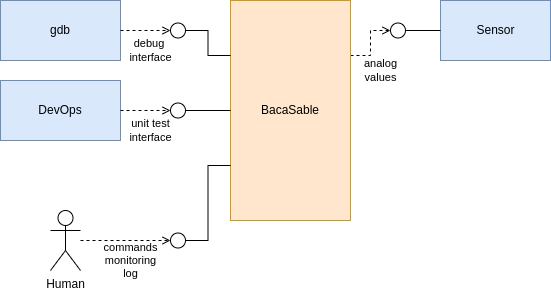
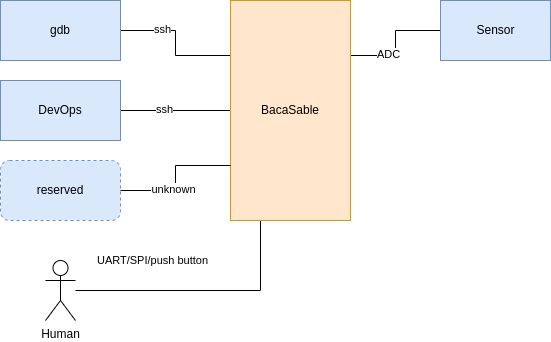
Fixed system scope and context
Split of business and technical context. Business is all
technologies we want to train/improve, technical context
represents the means used to do it

diff --git a/01_Analysis/03_system_scope_and_context.md b/01_Analysis/03_system_scope_and_context.md
@@ -10,21 +10,35 @@ An interface with the real physical world may also bring some unexpected behavio
 
 ### Motivation
 
-The domain interfaces and technical interfaces to communication partners
-are among your system's most critical aspects. Make sure that you
-completely understand them.  
--> @todo
+As the need to learn new technologies will surely change in the future, an full list of interfaces can't be fixed. On the contrary, we should add some spare hardware/software interfaces for future use.
 
 ## Business Context {#_business_context}
 
 **Contents**  
 There is no special business context as our aim is to show some technical skills instead of developing a business model and win money
 
+For this reason, a full specification of business model can't be fixed here, but a direction about what will be done is described in this paragraph anyway.
+
 **Motivation**  
 *none*  
 
 **Form**  
-*none*  
+
+*Technical context diagram:*  
+
+![Categories of Quality
+Requirements](images/Business_context.png)
+
+
+*list of interfaces and their descriptions:*  
+
+|Interface| purpose | required by | provided by |
+|:-:|:-|:-:|:-:|
+|Debug | Provide an interface to debug target from a remote host | dbg server | BacaSable |
+|unit test | Interface to execute automatized unit tests on target with a continuous integration server | DevOps | BacaSable |
+| Commands | Allow human to read info or send commands to target while running | human | BacaSable |
+| Analog values | Provide values coming from physical world and play with it | BacaSable | Sensor |
+| future use | Future use of BacaSable for new coming features. Other technologies may be desired to be implemented, so represent an unknown entity helps to keep in mind about those future use | ? | ? |
 
 
 ## Technical Context {#_technical_context}
@@ -54,9 +68,10 @@ Requirements](images/Technical_context.png)
 
 *list of interfaces and their descriptions:*  
 
-|Interface| purpose | required by | provided by | Technical mean | in/out |
-|:-:|:-|:-:|:-:|:-:|:-:|
-|Debug | Provide an interface to debug target from a remote host | dbg server | BacaSable | ssh? | in/out |
-|unit test | Interface to execute automatized unit tests on target with a continuous integration server | DevOps | BacaSable | ssh? | in/out |
-| Commands | Allow human to read info or send commands to target while running | human | BacaSable | UART or SPI | out |
-| Analog values | Provide values coming from physical world and play with it | BacaSable | Sensor | ADC | in |
+|Interface| purpose | Technical mean | in/out |
+|:-:|:-|:-:|:-:|
+|Debug | Provide an interface to debug target from a remote host | ssh? | in/out |
+|unit test | Interface to execute automatized unit tests on target with a continuous integration server |  ssh? | in/out |
+| Commands | Allow human to read info or send commands to target while running | UART or SPI | out |
+| Analog values | Provide values coming from physical world and play with it | ADC | in |
+| future use | Future use of BacaSable for new coming features | Available interfaces | ? |
